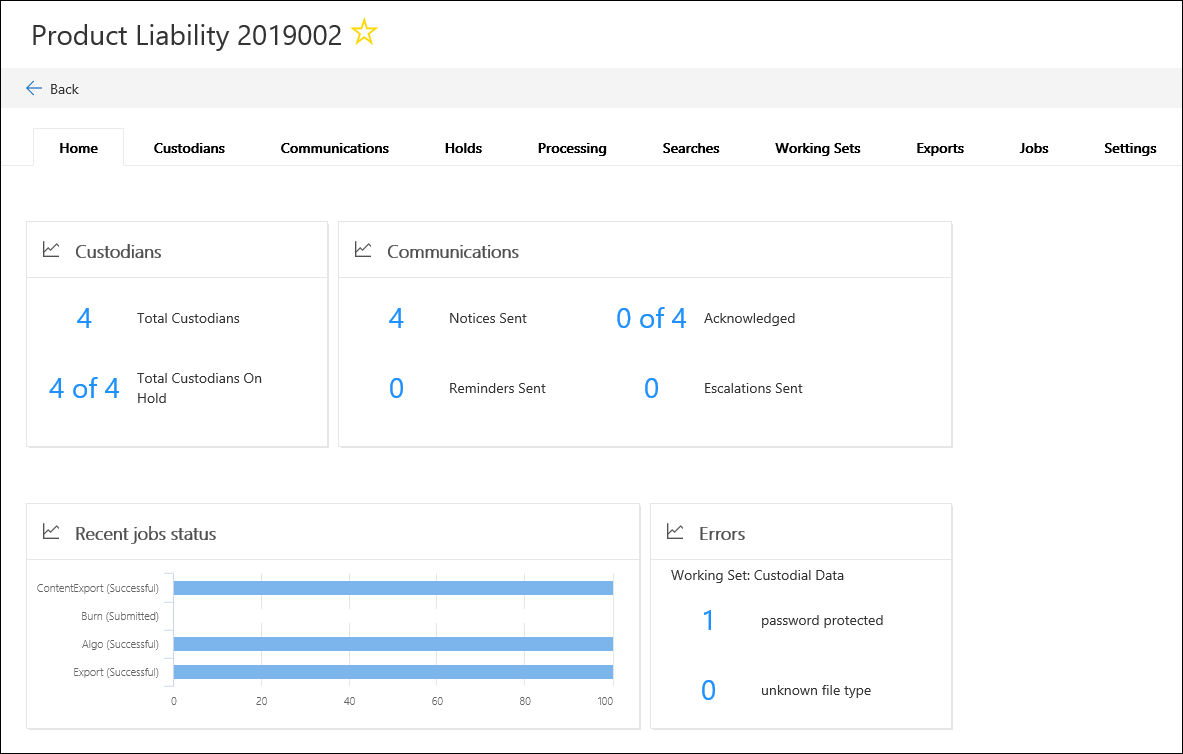
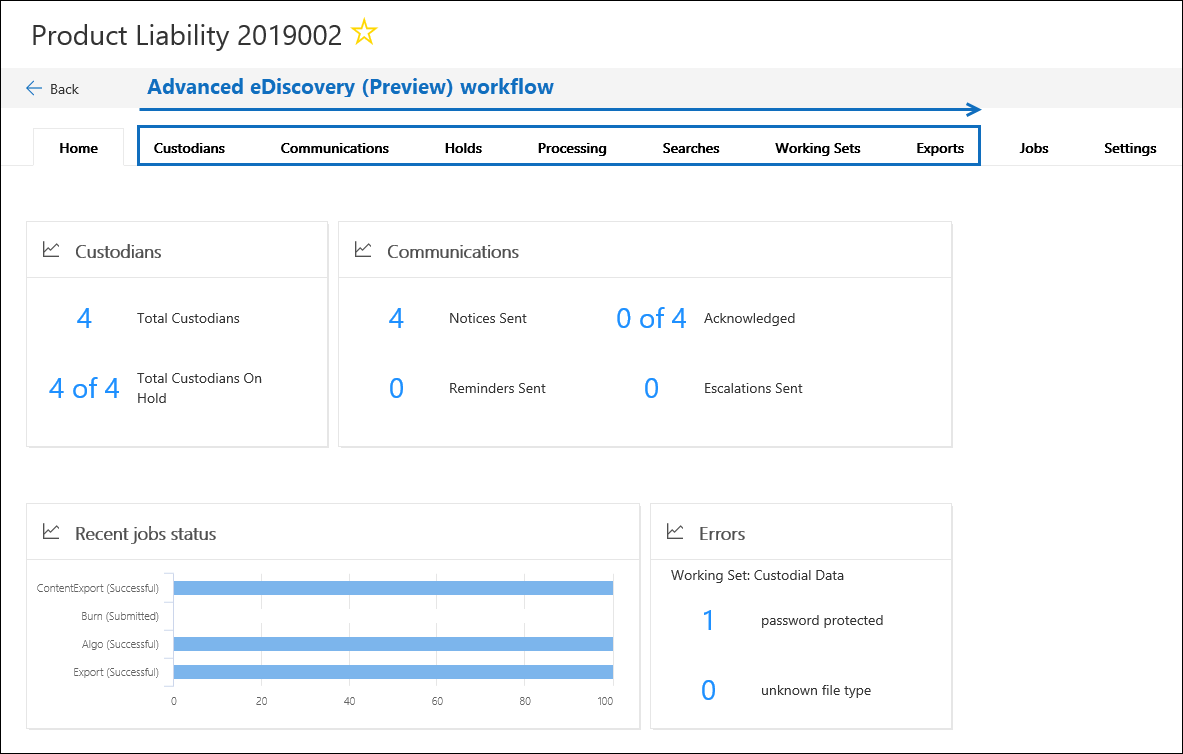
added content coming soon disclaimer

Changed region(s): [[0.1217, 0.0915, 0.8216, 0.183], [0.1217, 0.2135, 0.8216, 0.244]]

diff --git a/SecurityCompliance/compliance20/overview-ediscovery-20.md b/SecurityCompliance/compliance20/overview-ediscovery-20.md
@@ -41,30 +41,48 @@ The built-in workflow of Advanced eDiscovery (Preview) aligns with the eDiscover
 
 ## Advanced eDiscovery (Preview) workflow
 
-Here's an outline of the built-in workflow in Advanced eDiscovery (Preview). The following screenshot shows the home tab of a case named *Product Liability 2019002*. Note the tabs at the top of the page are sequenced to align with the EDRM workflow process. 
+The following sections describe each step in the built-in workflow in Advanced eDiscovery (Preview). The following screenshot shows the **Home** tab of a case named *Product Liability 2019002*. Note the workflow tabs at the top of the page are sequenced to align with the EDRM process. 
 
 For more information about the end-to-end workflow in Advanced eDiscovery (Preview), see this [Microsoft Mechanics video](https://go.microsoft.com/fwlink/?linkid=2066133). 
 
 ![Tabs in Advanced eDiscovery (Preview) follow the EDRM workflow](../media/aedisco-homepage-1.png)
 
-- **Managing custodians** - Use the **Custodians** tab to add and manage the people that you've identified as persons of interest in the case. When you add custodians, you can quickly perform custodian-related actions such as placing a legal how on custodian data sources, such as their mailbox and OneDrive account, communicating with custodians, and searching custodian data sources to collect content that's relevant to the case. As as the case progress, it's easy to add new custodians or release custodians from the case. For more information, see [Working with custodians in Advanced eDiscovery (Preview)](managing-custodians.md).
+## Managing custodians
 
-- **Managing legal hold notifications** - Use the **Communications** tab to manage the process of communicating with the custodians in the case. A legal hold notice instructs custodians to preserve any content that may be relevant to the case. Legal teams must be able to track that notices have been received, read, and acknowledged by custodians. The communications workflow in Advanced eDiscovery (Preview) allows you create and send initial notifications, reminders, release notices, and escalations if custodians fail to acknowledge a hold notification.  
+Use the **Custodians** tab to add and manage the people that you've identified as persons of interest in the case. When you add custodians, you can quickly perform custodian-related actions such as placing a legal how on custodian data sources, such as their mailbox and OneDrive account, communicating with custodians, and searching custodian data sources to collect content that's relevant to the case. As as the case progress, it's easy to add new custodians or release custodians from the case. For more information, see [Working with custodians in Advanced eDiscovery (Preview)](managing-custodians.md).
 
-- **Managing content preservation** - When you add a custodian to a case, you have the option to place a hold on custodial data. Use the **Holds** tab to manage the hold created when you add custodians and manage additional legal holds associated with the case; for example, you can identify and place a hold on non-custodial data sources. You can also edit any hold in the case and make it a query-based hold so that only the content that matches the query is placed on hold; for example, you could add a date range to the hold so that only content that was created within a specific date ranged in preserved. You can also get statistics on content that's on hold, remove the hold after when it's no longer relevant to the case, or delete it. For more information, see [Managing holds in Advanced eDiscovery (Preview)](managing-holds.md).
+## Managing legal hold notifications
 
-- **Indexing custodian data** - When you add a custodian and the corresponding custodial data sources to a case, any partially indexed item from a custodian data source is re-indexed (by a process called *Advanced indexing*). This allow custodial content such as images, unsupported file types, and other potentially un-indexed content to be fully searchable when you run searches to collect data that's relevant to the case. Use the **Processing** tab to monitor the status of Advanced indexing and fix processing errors (using a process calle *error remediation*.) For more information, see [Fixing processing errors in Advanced eDiscovery (Preview)](processing-data-for-case.md).
+Use the **Communications** tab to manage the process of communicating with the custodians in the case. A legal hold notice instructs custodians to preserve any content that may be relevant to the case. Legal teams must be able to track that notices have been received, read, and acknowledged by custodians. The communications workflow in Advanced eDiscovery (Preview) allows you create and send initial notifications, reminders, release notices, and escalations if custodians fail to acknowledge a hold notification.  
 
-- **Collecting data** - Use the **Searches** tab to create searches to search the in-place custodial and non-custodial data sources in Office 365 for content that is relevant to the case. You can create and run query-based searches (using keywords and conditions) to identify a set email messages and documents that are relevant to the case and the  you want to further review and analyze in subsequent steps in the eDiscovery workflow. You can create one or more searches associated with the case. Additionally, you can use the search tool to preview sample documents and view search statistics that may help refine and improve the search results. Once you're satisfied that the search results contain the all the data relevant to the case, you add the search results to a working set for further review, analysis and if necessary, culling. For more information, see [Collecting data for a case in Advanced eDiscovery (Preview)](collecting-data-for-ediscovery.md).
+## Managing content preservation
 
-- **Review and analyze case data** - Use the **Working sets** tab or review and analyze the content that you've collected from the live system and added to a working set. A *working set* is a static collection (in other words, an offline copy of dat) of custodial data (and if applicable, non-custodial data ) that you collected in the previous phase of the eDiscovery workflow. When you add search results to a working set, a process is triggered that extracts files from containers, extracts metadata, and extracts text. When this process is complete, the system builds a new index of all the data collected from custodians and added to the working set. Once the data is added to the working set, you can run additional queries to narrow the case data, view data as text or in the native file format, and annotate, redact, and tag documents in the working set. Additionally, you can perform advanced analytics such as identify document duplication, email threading, and themes. Once you've culled the data to only what is relevant to the case, you can either download download documents directly or export them along with file metadata, annotations, and any tags. For more information, see:
+When you add a custodian to a case, you have the option to place a hold on custodial data. Use the **Holds** tab to manage the hold created when you add custodians and manage additional legal holds associated with the case; for example, you can identify and place a hold on non-custodial data sources. You can also edit any hold in the case and make it a query-based hold so that only the content that matches the query is placed on hold; for example, you could add a date range to the hold so that only content that was created within a specific date ranged in preserved. You can also get statistics on content that's on hold, remove the hold after when it's no longer relevant to the case, or delete it. For more information, see [Managing holds in Advanced eDiscovery (Preview)](managing-holds.md).
+
+## Indexing custodian data
+
+When you add a custodian and the corresponding custodial data sources to a case, any partially indexed item from a custodian data source is re-indexed (by a process called *Advanced indexing*). This allow custodial content such as images, unsupported file types, and other potentially un-indexed content to be fully searchable when you run searches to collect data that's relevant to the case. Use the **Processing** tab to monitor the status of Advanced indexing and fix processing errors (using a process calle *error remediation*.) For more information, see [Fixing processing errors in Advanced eDiscovery (Preview)](processing-data-for-case.md).
+
+## Collecting case data
+
+Use the **Searches** tab to create searches to search the in-place custodial and non-custodial data sources in Office 365 for content that is relevant to the case. You can create and run query-based searches (using keywords and conditions) to identify a set email messages and documents that are relevant to the case and the  you want to further review and analyze in subsequent steps in the eDiscovery workflow. You can create one or more searches associated with the case. Additionally, you can use the search tool to preview sample documents and view search statistics that may help refine and improve the search results. Once you're satisfied that the search results contain the all the data relevant to the case, you add the search results to a working set for further review, analysis and if necessary, culling. For more information, see [Collecting data for a case in Advanced eDiscovery (Preview)](collecting-data-for-ediscovery.md).
+
+## Reviewing and analyzig case data
+
+Use the **Working sets** tab or review and analyze the content that you've collected from the live system and added to a working set. A *working set* is a static collection (in other words, an offline copy of dat) of custodial data (and if applicable, non-custodial data ) that you collected in the previous phase of the eDiscovery workflow. When you add search results to a working set, a process is triggered that extracts files from containers, extracts metadata, and extracts text. When this process is complete, the system builds a new index of all the data collected from custodians and added to the working set. Once the data is added to the working set, you can run additional queries to narrow the case data, view data as text or in the native file format, and annotate, redact, and tag documents in the working set. Additionally, you can perform advanced analytics such as identify document duplication, email threading, and themes. Once you've culled the data to only what is relevant to the case, you can either download download documents directly or export them along with file metadata, annotations, and any tags. For more information, see:
 
   - [Reviewing case data in Advanced eDiscovery (Preview)](reviewing-data-in-working-set.md)
   - [Analyzing data in a working set in Advanced eDiscovery (Preview)](analyzing-data-in-working-set.md)
 
-- **Exporting data for review and presentation** - After you export the data from a working set, use the **Exports** tab to manage an export job and download data from a working set. When you export a working set, the data is uploaded to an Azure storage location and then is available to be downloaded to a local computer. You can obtain the location and storage assess key necessary to download the exported data on the **Exports** tab. For more information, see [Exporting case data in Advanced eDiscovery (Preview)](exporting-data-ediscover20.md).
+## Exporting data for review and presentation
 
-- **Managing jobs** - Use the **Jobs** tab to monitor long-running processes for case-related tasks that you've initiated, searches as re-indexing, searches, and exports. For example, you might create a new search on the **Searches** tab that includes a large number of data sources. The status of this search process is displayed on the **Jobs** tab. For more information, see [Managing jobs in Advanced eDiscovery (Preview)](managing-jobs-ediscovery20.md).
+After you export the data from a working set, use the **Exports** tab to manage an export job and download data from a working set. When you export a working set, the data is uploaded to an Azure storage location and then is available to be downloaded to a local computer. You can obtain the location and storage assess key necessary to download the exported data on the **Exports** tab. For more information, see [Exporting case data in Advanced eDiscovery (Preview)](exporting-data-ediscover20.md).
 
-- **Configuring case settings** - Use the **Settings** tab for configure case-wide settings. This includes adding members to a case, closing or deleting a case, and configuring search and analytics behavior. For more information, see [Configuring case settings in Advanced eDiscovery (Preview)](configuring-case-settings-ediscovery20.md).
+## Managing jobs
+
+Use the **Jobs** tab to monitor long-running processes for case-related tasks that you've initiated, searches as re-indexing, searches, and exports. For example, you might create a new search on the **Searches** tab that includes a large number of data sources. The status of this search process is displayed on the **Jobs** tab. For more information, see [Managing jobs in Advanced eDiscovery (Preview)](managing-jobs-ediscovery20.md).
+
+## Configuring case settings
+
+Use the **Settings** tab for configure case-wide settings. This includes adding members to a case, closing or deleting a case, and configuring search and analytics behavior. For more information, see [Configuring case settings in Advanced eDiscovery (Preview)](configuring-case-settings-ediscovery20.md).
 

diff --git a/SecurityCompliance/compliance20/manage-hold-notification.md b/SecurityCompliance/compliance20/manage-hold-notification.md
@@ -21,11 +21,11 @@ description: ""
 
 After you have initiated your legal hold notification workflow, you can leverage  Advanced eDiscovery (Preview) to track the status of your communications. The Communications Tab showcases all of the hold notifications within your Advanced eDiscovery (Preview) case. Here, you can see details, such as the number of custodians that have been assigned or have acknowledged the notice.
 
-## View communication Details
+## View communication details
 
 ### Track acknowledgements
 
-Once you select a communication from the **Communications Tab**, you can view a list of custodians that have acknowledged a hold notice. 
+Once you select a communication from the **Communications**, tab you can view a list of custodians that have acknowledged a hold notice. 
 
 ### Preview acknowledgements
 

diff --git a/SecurityCompliance/compliance20/managing-working-sets.md b/SecurityCompliance/compliance20/managing-working-sets.md
@@ -19,12 +19,11 @@ description: ""
 
 # Managing working sets in Advanced eDiscovery (Preview)  
 
-
-
+Content coming soon.
 
 ## More information
 
-- **There are limits for eDiscovery working sets** The following table lists the limits for Advanced eDiscovery (Preview) working sets.  Any items that exceed the single file maximums will show up as processing errors.
+The following table lists the limits for working sets in Advanced eDiscovery (Preview).  Any items that exceed the single file maximums will show up as processing errors.
     
   |**Description of limit**|**Limit**|
   |:-----|:-----|

diff --git a/SecurityCompliance/compliance20/create-new-ediscovery-case.md b/SecurityCompliance/compliance20/create-new-ediscovery-case.md
@@ -41,6 +41,6 @@ description: ""
 
 8. To open a case, click the name of the case. 
 
-    The home tab for the case is displayed. For example, here's the home tab a case named *Product Liability 2019002*.
+    The **Home** tab for the case is displayed. For example, here's a new case named *Contoso Investigation*.
 
-    ![Case home page](../media/aedisco-homepage-1.png)
+    ![The Home tab for a new case in Advanced eDiscovery](../media/newAeDcase.png)

diff --git a/SecurityCompliance/compliance20/supported-filetypes-ediscovery20.md b/SecurityCompliance/compliance20/supported-filetypes-ediscovery20.md
@@ -19,9 +19,4 @@ description: ""
 
 # Supported file types in Advanced eDiscovery (Preview)
 
-
-## File types supported for Analysis
-
-
-
-## File types supported for Optical Character Recognition
+Content coming soon.

diff --git a/SecurityCompliance/compliance20/tagging-documents.md b/SecurityCompliance/compliance20/tagging-documents.md
@@ -19,8 +19,4 @@ description: ""
 
 # Tagging documents in a working set
 
-
-## Creating a tag
-
-
-## Applying tags to documents
+Content coming soon.

diff --git a/SecurityCompliance/compliance20/annotating-and-redacting-documents.md b/SecurityCompliance/compliance20/annotating-and-redacting-documents.md
@@ -19,6 +19,4 @@ description: ""
 
 # Viewing documents in a working set
 
-## Annotating documents
-
-## Redacting documents
+Content coming soon.

diff --git a/SecurityCompliance/compliance20/indexing-limits-ediscovery20.md b/SecurityCompliance/compliance20/indexing-limits-ediscovery20.md
@@ -19,4 +19,4 @@ description: ""
 
 # Indexing limits in Advanced eDiscovery (Preview)
 
-(add content here)
+Content coming soon.

diff --git a/SecurityCompliance/compliance20/search-limits-ediscovery20.md b/SecurityCompliance/compliance20/search-limits-ediscovery20.md
@@ -19,4 +19,4 @@ description: ""
 
 # Search limits in Advanced eDiscovery (Preview)
 
-(add content here)
+Content coming soon.

diff --git a/SecurityCompliance/compliance20/configuring-case-settings-ediscovery20.md b/SecurityCompliance/compliance20/configuring-case-settings-ediscovery20.md
@@ -19,3 +19,4 @@ description: ""
 
 # Configuring case settings in Advanced eDiscovery (Preview)
 
+Content coming soon.

diff --git a/SecurityCompliance/compliance20/exporting-data-ediscover20.md b/SecurityCompliance/compliance20/exporting-data-ediscover20.md
@@ -19,3 +19,4 @@ description: ""
 
 # Exporting case data in Advanced eDiscovery (Preview)
 
+Content coming soon.

diff --git a/SecurityCompliance/compliance20/reviewing-data-in-working-set.md b/SecurityCompliance/compliance20/reviewing-data-in-working-set.md
@@ -19,3 +19,4 @@ description: ""
 
 # Reviewing case data in Advanced eDiscovery (Preview)
 
+Content coming soon.
